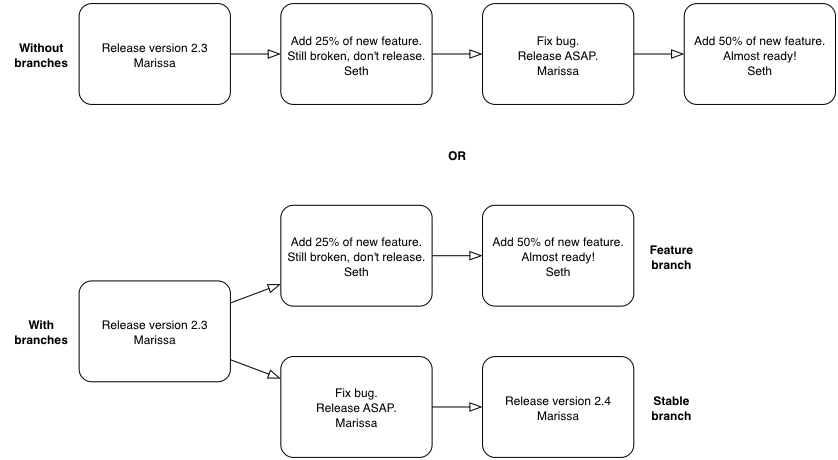
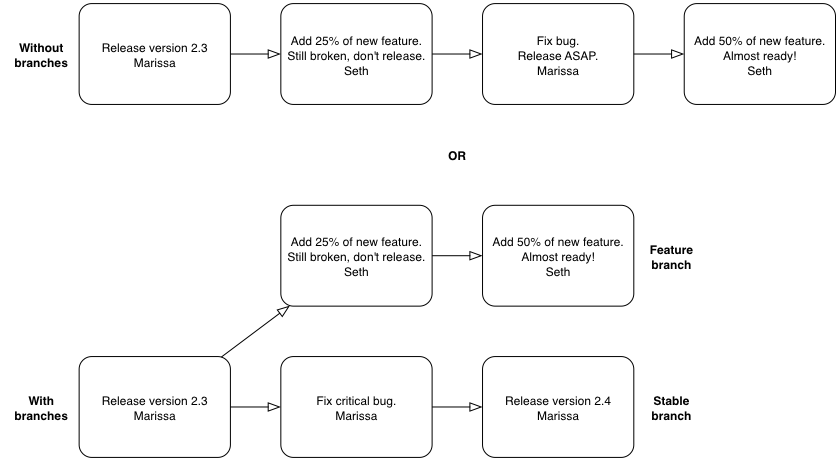
Chapter 1: make fixes, add TODOs.

diff --git a/01-IntroductionToDistributedVersionControl.md b/01-IntroductionToDistributedVersionControl.md
@@ -1,3 +1,5 @@
+<!-- TODO: Still need to write the intro to Part 1 -->
+
 # Introduction to Distributed Version Control
 This chapter covers:
 
@@ -5,48 +7,61 @@ This chapter covers:
 * Adding files to a version control system (_committing_), seeing the differences between versions of files (_diffing_), creating independent tracks of changes (_branching_) and bringing the changes in one track back into another (_merging_).
 * Differences between version control systems that store and share changes on a central server (_centralized version control systems_) and those that keep all changes on a local machine and can send and receive them from other machines (_distributed version control systems_).
 
-## Managing changes
+<!-- TODO: Need a paragraph or two here -->
+
+## Why use version control?
+<!-- TODO: Remove undo diagram and move logic into next diagram instead -->
+
 ![Undo in a word processor](diagrams/01-Undo.png)
 
-A common problem when dealing with information stored on a computer is handling _changes_. For example, after adding, modifying or deleting text you may want to undo that action (and perhaps redo it later). At the simplest level this might be _undo_ in a word processor; after new words are added or formatting changed it may be necessary to undo these changes by pressing undo repeatedly until you return to the desired previous state. At a more advanced level you may also find yourself sharing a document with other people and, rather than just undoing and redoing changes, may also wish to know who made a change, why they made it, when they made it, what the change was and perhaps even store multiple versions of the document in parallel. A _version control system_ (such as Git) allows all these operations and more.
+A common problem when dealing with information stored on a computer is handling _changes_. For example, after adding, modifying or deleting text you may want to undo that action (and perhaps redo it later). At the simplest level this might be done by clicking _undo_ in a word processor (which reverts a previous action); after new words are added or formatting changed it may be necessary to undo these changes by pressing undo repeatedly until you return to the desired previous state. At a more advanced level you may also find yourself sharing a document with other people and, rather than just undoing and redoing changes, may also wish to know who made a change, why they made it, when they made it, what the change was and perhaps even store multiple versions of the document in parallel. A _version control system_ (such as Git) allows all these operations and more.
 
 ![Multiple files vs version control](diagrams/01-MultipleFiles.png)
 
-A typical method for version control is often simply creating duplicate versions of files with differing filenames and contents (`Important Document V4 FINAL FINAL.doc` may sound sadly familiar). Rather than trying to remember differences between the versions and manually making copies each time you could instead put a file (or files) into a version control system (also known as a _revision control system_ or _source control management system_).
+<!-- TODO: Split into two diagrams. Consult email discussion. -->
+<!-- TODO: Reference all figures by name -->
+
+A typical method for version control is often simply creating duplicate versions of files with differing filenames and contents (`Important Document V4 FINAL FINAL.doc` may sound sadly familiar). <!-- TODO: Here's where I figure the filesystem half of the comparison figure should go --> Rather than trying to remember differences between the versions and manually making copies each time you could instead put a file (or files) into a version control system (also known as a _revision control system_ or _source control management system_).
 
 In a version control system instead of just saving a document after your changes have been made you would _commit_ it. This involves a save-like operation commanding the version control system to store this particular version and specifying a message stating the reason for their change or what it accomplishes. When another commit is made then the previous version would remain in _history_ where its changes could be examined at a later time. Version control systems can therefore solve the problem of reviewing and retrieving previous changes and allow single files to be used rather than duplicated.
 
-###  Version control for programmers
-Programmers spend most of their jobs (and sometimes their lives) editing text. This text is typically source code which will be interpreted by a computer to perform some task (hopefully better than a human) but could also be software configuration files, documentation, emails or even a dreaded TPS report. As they typically work autonomously in teams and can be distributed by time or geography it's important that they communicate explicitly to other programmers why a particular change was made. Additionally programmers inevitably write software which contains _errors_ (or _bugs_, if you're feeling kind, or _errata_ if you're an electronic engineer). When trying to work out why a bug occurred (and hopefully fix it) it's useful to see what changes were made, by whom and for what reason. Often programmers will need to fix bugs in sections of code they did not create so being able to record and recall the intent of the original author at a later point can help understand what faulty assumptions may have caused a bug.
-
-![Multiple branches](diagrams/01-Branches.png)
-
-When creating computer software it's also common to release new _versions_ of a product. New versions are generally released when bugs are fixed and/or when new features have been created. However, a team may be half way through developing a new feature but have fixed a bug that they need to provide to users immediately (before the new feature has been completed). In this case two _branches_ could be used to split the history and allow a version containing the bug fix to be immediately released and ensure that none of the changes made while creating a new feature end up in that release. Instead these changes would be made on an independent branch of the history to allow continuous work on the new feature rather than waiting for the bug fix's release to be made.
+<!-- TODO: Here's where the VCS half of the figure should go. Followed by a short sentence or two comparing how the user then accesses first the current version of the file and then a previous version. -->
 
 ###  Version control workflow
 ![Workflow](diagrams/01-Workflow.png)
 
 Version control systems work by maintaining a list of changes to files over time. Each time a file is modified and committed the difference between the newly committed version of the file and the previous version of the file is stored in the _repository_; a centralized location where the version control system stores files for a particular project. Each commit points to the previous one and stores metadata for a history of the project containing messages, times, authors and difference between files (known as _diffs_). The version control system allows viewing and restoring previous versions of files and returning to the latest at any time. This allows you to have confidence that, no matter what you may add, modify or delete, the older version will always be around if you need to check back on it.
 
-Let's more about a version of a file (or files) in a version control system. These are known as _commits_.
+###  Version control for programmer collaboration
+Programmers spend most of their jobs (and sometimes their lives) editing text. This text is typically source code which will be interpreted by a computer to perform some task (hopefully better than a human) but could also be software configuration files, documentation, emails or even a dreaded TPS report. As they typically work on independent units of work while in larger teams and can be distributed by time or geography it's important that they communicate explicitly to other programmers why a particular change was made. Additionally programmers inevitably write software which contains _errors_ (or _bugs_, if you're feeling kind, or _errata_ if you're an electronic engineer). When trying to work out why a bug occurred (and hopefully fix it) it's useful to see what changes were made, by whom and for what reason. Often programmers will need to fix bugs in sections of code they did not create so being able to record and recall the intent of the original author at a later point can help understand what faulty assumptions may have caused a bug.
+
+![Multiple branches](diagrams/01-Branches.png)
+
+When creating computer software it's also common to release new _versions_ of a product. New versions are generally released when bugs are fixed and/or when new features have been created. However, a team may be half way through developing a new feature but have fixed a bug that they need to provide to users immediately (before the new feature has been completed). In this case two _branches_ could be used to split the history and allow a version containing the bug fix to be immediately released and ensure that none of the changes made while creating a new feature end up in that release. Instead these changes would be made on an independent branch of the history to allow continuous work on the new feature rather than waiting for the bug fix's release to be made. This branch could be later _merged_ into the main branch which would include all the changes into the main branch.
+
+Let's learn more about a version of a file (or files) in a version control system. These are known as _commits_.
 
 ## Committing: recording changes to code
+<!-- TODO: Annotate right commit and shrink left commit so only contains unique reference and headings? -->
 ![A commit](diagrams/01-Commit.png)
 
 A _commit_ is an collection of changes to one or more files in a version control system. Each commit contains a message entered by the author, details of the author of the commit, a unique commit reference (the format of which varies between version control systems but in Git looks like `86bb0d659a39c98808439fadb8dbd594bec0004d`), a pointer to the preceding commit (known as the _parent commit_), the date the commit was created and the _diff_ (the differences between the files before and the files after the commit).
 
 As you may have noticed the above diagram uses arrows pointing from commits to the one previously. The reason for this is that commits contain a pointer to the _parent commit_ and not the other way round; when a commit is made it has no idea what the next commit will be yet.
 
-### Creating a commit from changes
 A _commit_ is made up of the changes to one or more files on disk. The typical workflow is that you will change the contents of files inside a folder on disk which is managed by Git and, after making all necessary changes, review the _diffs_ and add them to a new commit. Often all the _diffs_ made will turn into one commit and then the cycle will repeat. Sometimes, however, it is desirable to pick only individual changed files (or even individual changed lines within files) to include in a commit and leave the other changes for adding in a future commit. This is often desirable because commits should be the smallest possible units of work to make them easier to understand.
 
-### Commit storage in Git
-Git is a version control system built on top of an _object store_. When you commit Git creates and stores a collection of objects inside the object store. This object store is stored inside the Git _repository_. The repository is the local collection of all the files related to a particular Git version control system and is stored in a `.git` folder in the root of the project. If you were to explore under here (as we will do in a later chapter) you would find objects, various pointers/references to objects and configuration files.
+<!-- TODO: rule of thumb about small commits being better and why (into callout) -->
 
+### Commit storage in Git
+Git is a version control system built on top of an _object store_. When you commit Git creates and stores a collection of objects inside the object store. This object store is stored inside the Git _repository_. The repository is the local collection of all the files related to a particular Git version control system and is stored in a `.git` folder in the root of the project. If you were to explore under here (as we will do in Chapter 2) you would find objects, various pointers/references to objects and configuration files.
+
+<!-- TODO: annotate diagram further based on paragraph below -->
 ![Git objects](diagrams/01-Objects.png)
 
 The main three Git objects we're concerned about are _commits_, _blobs_ and _trees_ (there is also a _tag_ object but we can ignore this for now). We've already seen what commits are and what they store (metadata and a diff) but what do the blob and tree objects store? A blob object stores the contents of a particular version of a particular single file in the Git repository. A tree object stores a reference to all the blob objects at a particular point in time and other tree objects if there are any subfolders.
 
+<!-- TODO: make a callout -->
 When using Git you should never need to interact with objects or object files directly. The terminology of _blobs_ and _trees_ are not used regularly in Git or in this book but it's useful to remember what these are so you can build a conceptual understanding of what Git is doing internally. When things go well this should be unnecessary but when we start to delve into more advanced Git functionality or Git spits out a baffling error message then remembering _blobs_ and _trees_ may help you work out what has happened.
 
 Now we've peeked behind Git's abstraction to see how it stores things internally let's return to something very practical: how versions of code change over time.
@@ -60,22 +75,26 @@ When you are using version control you will find yourself regularly checking the
 
 As you may have got a sense of already: how useful the history is relies very much on the quality of the data entered into it. If I was making a commit once per year with huge numbers of changes and a commit message like "do stuff" then it would be fairly hard to use effectively. Ideally commits are small and well-described; follow these two rules and having a complete history becomes a very useful tool.
 
-### Parent commits
+### Commits point to their parent commits
 Every commit points to its _parent commit_. The parent commit in a linear, branch-less history will be the one that immediately preceded it. The only commit that lacks a parent commit is the _initial commit_; the first commit in the repository. By following the parent commit, its parent, its parent and so on you will always be able to get back from the current commit to the initial commit.
+
+<!-- TODO: add graphic of commits -->
 
 ### Rewriting history
 Git is unusual compared to many other version control systems in that it allows history to be rewritten. This may seen surprising or worrying; after all did I not just tell you that the history contains the entire list of changes to the project over time? Surely it is dangerous to modify this? The answer to this question is: sometimes. In a history book you may hear about the beginning and end of various historical transitions but not every detail of what occurred in between. Similarly sometimes you may want to highlight only broader changes to files in a version control system over a period of time rather than sharing ever single change that was made in reaching the final state.
 
+<!--TODO: annotate with better captions -->
 ![Squashing](diagrams/01-Squashing.png)
 
-Here you see a fairly common use-case for rewriting history with Git. If you were working on some window code all morning and wanted your coworkers to see it later (or just include it in the project) then there's no need for everyone to see the mistakes you made along the way; why damage your good reputation unnecessarily? In the diagram the commits are being _squashed_ together so instead of three commits and the latter two fixing mistakes in the first commit we have squashed these together to create a single commit for the window feature. We'd only rewrite history like this if working on a separate branch that hadn't had other work from other people relying on it yet as it has changed some parent commits (so, without intervention, other people's commits may point to commits that no longer exist). Don't worry too much about rebasing or squashing work for now; just this as a situation where you may want to rewrite history. Later in the book we'll cover cases where history rewriting is useful such as rewriting an entire repository to change an email address or removing confidential information before making the history public.
+Here you see a fairly common use-case for rewriting history with Git. If you were working on some window code all morning and wanted your coworkers to see it later (or just include it in the project) then there's no need for everyone to see the mistakes you made along the way; why damage your good reputation unnecessarily? In the diagram the commits are being _squashed_ together so instead of three commits and the latter two fixing mistakes in the first commit we have squashed these together to create a single commit for the window feature. We'd only rewrite history like this if working on a separate branch that hadn't had other work from other people relying on it yet as it has changed some parent commits (so, without intervention, other people's commits may point to commits that no longer exist). Don't worry too much about rebasing or squashing work for now; just this as a situation where you may want to rewrite history. In Chapter 7 we'll cover cases where history rewriting is useful such as rewriting an entire repository to change an email address or removing confidential information before making the history public.
 
-What we're generally interested in when using the history (and why we clean it up) is ensuring the changes between commits are minimal and readable. These changes are known as _diffs_.
+What we're generally interested in when reading the history (and why we clean it up) is ensuring the changes between commits are relevant (for example don't make changes only to revert then immediately in the next commit five minutes later), minimal and readable. These changes are known as _diffs_.
 
 ## Diffs: the differences between commits
 A _diff_ (also known as a _change_ or _delta_) is the difference between two commits. In a version control system you can typically request a diff between any two commits, branches or tags. It's often useful to be able to request the difference between two parts of the history for analysis. For example, if an unexpected part of the software has recently started misbehaving you may go back into the history to verify that it previously worked. If it did work previously then you may want to examine the diff between the the code in the different parts of the history to see what has changed. The various ways of displaying diffs in version control typically allow you to narrow them down per-file, folder and even committer.
 
 ### Default diff format
+<!-- TODO: turn into an annotated diagram instead and use more than one file -->
 ```
 diff --git a/README.txt b/README.txt
 index a1584ab..6706ce7 100644
@@ -111,11 +130,11 @@ This software is very [-unstable.-]{+stable.+}
 
 A word diff is similar to a unified diff but shows modifications per-word rather than per-line. The above example shows that most of the sentence remained the same except for a few changed words. This is particularly useful when viewing changes that are not to code but plain text; in README files we probably care more about individual word choices than knowing that an entire line has changed and the special characters (`[-]{+}`) are not used as often in prose than in code.
 
-What do we do if we want to start making these modifications independently of other changes being made to the code? We use _branches_.
-
 ## Branches: working on multiple versions of code in parallel
 When committing to a version control system the history continues linearly; what was the most recent commit becomes the parent commit for the new commit. This parenting continues back to the initial commit in the repository. As discussed previously, sometimes this linear approach is not enough for software projects. Sometimes you may need to make new commits which are not yet ready for public consumption. Enter _branches_.
 
+<!--TODO: split graphic into two based on email -->
+<!--TODO: 1. middle bottom commit annotation "minor things committed to stable branch" 2. Stable branch or master branch 3. annotate commits in feature branch "new features, experimental refactoring on branch" -->
 ![Multiple branches](diagrams/01-Branches.png)
 
 Branching allows two independent tracks through history to be created and committed to without either modifying the other. Programmers can happily commit to their independent branch without the fear of disrupting the work of another branch. This means that they can, for example, commit broken or incomplete features rather than having to wait for others to be ready for their commits. It also means they can be isolated from changes made by others until they are ready to integrate them into their branch.
@@ -123,7 +142,7 @@ Branching allows two independent tracks through history to be created and commit
 When a branch is created and new commits are made that branch advances forward to include the new commits. In Git a branch is actually no more than a pointer to a particular commit. The branch is pointed to a new commit when a new commit is made on that branch. A _tag_ is quite similar to a branch but points to a single commit and remains pointing to the same commit even when new commits are made. Typically tags are used for annotating commits; for example, when you release version 1.0 of your software you may tag the commit used to built the 1.0 release with a "1.0" tag. This means you can come back to it in future, rebuild that release or check how certain things worked without fear that it will be somehow changed automatically.
 
 ### Using branching
-Branching allows two independent tracks of development to occur at once. In our simple previous example, one developer needed to work on a feature and another on a releasing a bug fix without either interfering with the other's work. At a more advanced level branches will be used more extensively than just one per developer (particularly in version control systems like Git that make creating a branch quick and easy). Some programmers will create _feature branches_ whenever they work on a new bug fix or feature and then integrate these branches at a later point; perhaps after requesting review of their changes from others. This means even for programmers working without a team it can be useful to have multiple branches in use at any one point. For example, you may be working on a new feature but realize that a critical error in your application needs fixed immediately. You could quickly create a new branch based off the (hopefully tagged) version used by customers, fix the error and switch branch back to the branch you had been committing the new feature to.
+Branching allows two independent tracks of development to occur at once. In our simple previous example, one developer needed to work on a feature and another on a releasing a bug fix without either interfering with the other's work. At a more advanced level branches will be used more extensively than just one per developer (particularly in version control systems like Git that make creating a branch quick and easy). Some programmers will create <!-- TODO: feature branches diagram --> _feature branches_ whenever they work on a new bug fix or feature and then integrate these branches at a later point; perhaps after requesting review of their changes from others. This means even for programmers working without a team it can be useful to have multiple branches in use at any one point. For example, you may be working on a new feature but realize that a critical error in your application needs fixed immediately. You could quickly create a new branch based off the (hopefully tagged) version used by customers, fix the error and switch branch back to the branch you had been committing the new feature to.
 
 ## Merging: bringing the changes from one branch into another
 At some point we have a branch that we're done with and we want to bring all the commits made on it into another branch. This process is known as a `merge`.
@@ -137,6 +156,7 @@ So far merges may have sounded too good to be true; you can work on multiple thi
 
 A _merge conflict_ occurs when both branches involved in the merge have changed the same file (or the same part of the same file, depending on how smart your version control system is). The version control system will try and automatically resolve these conflicts but sometimes is unable to do so without human intervention. Git can typically merge without conflicts as long as the changes were not too near each other in the same file. If the version control system fails to perform the merge without human intervention it produces a merge conflict.
 
+<!-- TODO: replace with annotated diagram -->
 ```
 <<<<<<<
 This software is very unstable.
@@ -145,7 +165,7 @@ This software is very stable.
 >>>>>>>
 ```
 
-When a merge conflict occurs the version control system will go through any files that have conflicts and insert something similar to the above markers. These markers indicate the versions of the file on each branch. In the case we were merging the "unstable" branch into "stable" then the README might have a merge conflict like the above; the "stable" branch says the software is very stable and the "unstable" branch says it is dangerously stable. The person performing the merge will need to manually edit the file to product the correctly merged output, save it and mark the commit as resolved. Sometimes the correct output will picking a single side of the markers and sometimes it will be a combination of the two.
+When a merge conflict occurs the version control system will go through any files that have conflicts and insert something similar to the above markers. These markers indicate the versions of the file on each branch. In the case we were merging the <!-- TODO: add workflow diagram --> "unstable" branch into "stable" then the README might have a merge conflict like the above; the "stable" branch says the software is very stable and the "unstable" branch says it is dangerously stable. The person performing the merge will need to manually edit the file to product the correctly merged output, save it and mark the commit as resolved. Sometimes the correct output will picking a single side of the markers and sometimes it will be a combination of the two.
 
 When conflicts have been resolved a _merge commit_ can be made. This will store the two parent commits and the conflicts that were resolved so they can be inspected in the future. Unfortunately sometimes people will pick the wrong option or merge incorrectly so it's good to be able to later see what conflicts they had to resolve.
 
@@ -154,11 +174,12 @@ A _rebase_ is a method of history rewriting in Git that is similar to a merge. A
 
 ![Rebasing branches](diagrams/01-Rebasing.png)
 
-In this case Seth wanted to rebase his feature branch on top of the current stable branch. He perhaps wanted to do this to include all the bug fixes from the stable branch but did not want to merge. In this case the rebase has changed the parent of the commit from the 2.3 release commit to the 2.4 release commit.
+In this case Seth wanted to rebase his feature branch on top of the current stable branch. He perhaps wanted to do this to include all the bug fixes from the stable branch but did not want to merge. In this case the rebase has changed the parent of the commit from the 2.3 release commit to the 2.4 release commit; anything included in the 2.4 release will now be in the feature branch.
 
-Don't worry about why you might want to rebase rather than merge yet; we'll cover this in more detail later in the book. All that's necessary to know for now is that it's a different approach to a merge that can be used for a similar outcome (pulling changes from one branch into another).
+We'll cover rebasing in more detail later in the book. All that's necessary to remember for now is that it's a different approach to a merge that can be used for a similar outcome (pulling changes from one branch into another).
 
 ## Remote Repositories: exchanging commits with another computer
+
 ![Remote workflow](diagrams/01-RemoteWorkflow.png)
 
 Typically when using version control you will want to share your commits (or branches) with other people using other computers. With a traditional, _centralized version control system_ (such as Subversion or CVS) the repository is usually stored on another machine. As you make a commit it is sent over the network, checked that it can apply (there may be other changes since you last checked) and then committed to the version control system where others can see it.
@@ -168,6 +189,7 @@ With a _distributed version control system_ like Git every user has a complete r
 A repository you send or receive commits to is known as a _remote repository_. You control when these changes are sent or received.
 
 ### Communicating with a remote repository
+<!--TODO: push/pull workflow diagram -->
 Changes are sent to a remote repository in a _push_ operation and received in a _pull_ or _fetch_ operation. When either of these occur your repository talks to the other repository, finds out what you know in common and sends only the differences between the two repositories (obviously with large repositories to do otherwise would be very slow).
 
 ### Authoritative version storage
